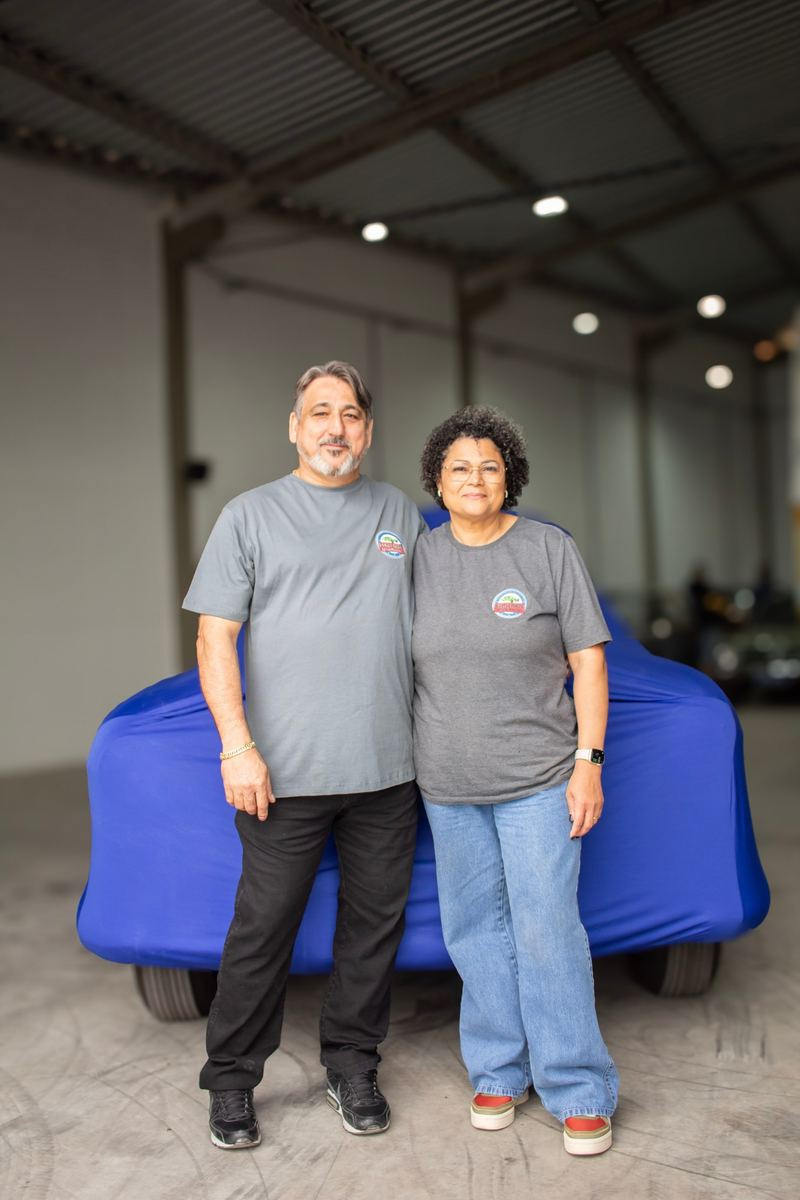
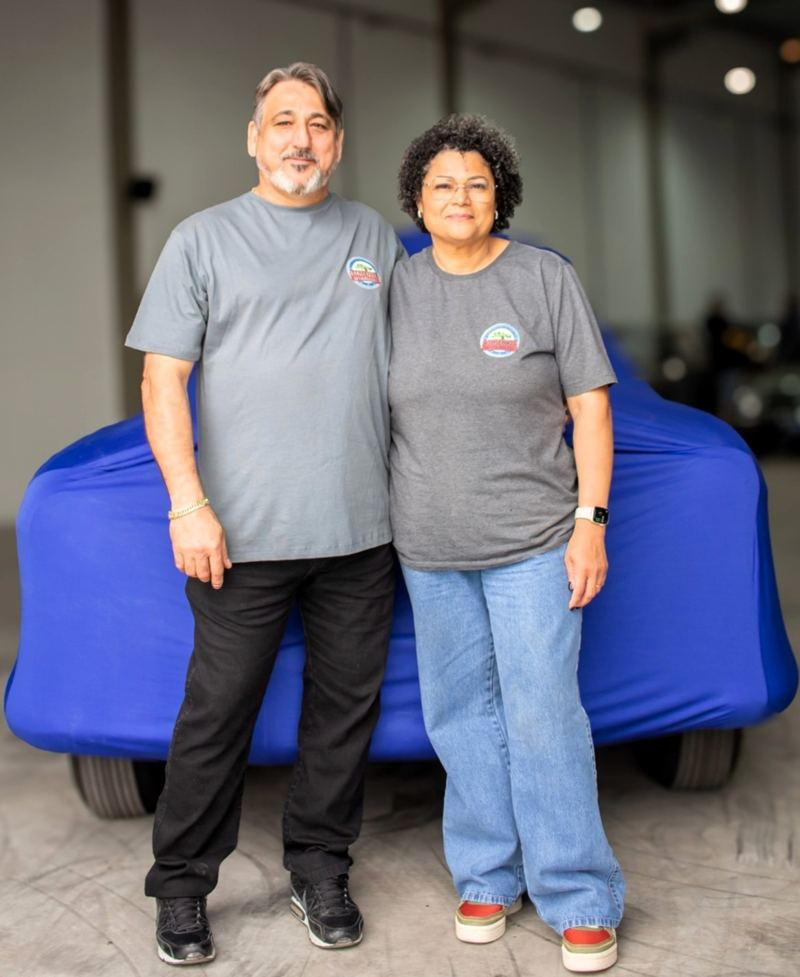
About page: Vanderlei's story, reorganized founders sections
- New "Vanderlei Bomsenhor" section with his career (from his parents'
  tyre shop at 12 to 15+ years at RH Restaurações) and 3 workshop photos
- "Uma empresa de família" now introduces the couple without repeating
  each story; new, smaller founders photo
- Edi Clea's section mentions her as Vanderlei's wife and first
  employee, photos on the left, quote full width below

diff --git a/app.js b/app.js
@@ -699,21 +699,12 @@ function renderSobre(){
 <section class="section" style="background:#FAF9F6">
   <div class="section-inner">
     <div class="founders">
-      <div class="founders-photo reveal"><img src="/images/equipe/fundadores-sm.jpg" srcset="/images/equipe/fundadores-sm.jpg 800w, /images/equipe/fundadores.jpg 1333w" sizes="(max-width:767px) 90vw, 40vw" alt="Vanderlei e Edi Clea Bomsenhor na oficina" loading="lazy"></div>
+      <div class="founders-photo reveal"><img src="/images/equipe/fundadores-sm.jpg" srcset="/images/equipe/fundadores-sm.jpg 800w, /images/equipe/fundadores.jpg 1164w" sizes="(max-width:767px) 90vw, 340px" alt="Vanderlei e Edi Clea Bomsenhor na oficina" loading="lazy"></div>
       <div>
         <span class="s-tag reveal">Quem faz a Bomsenhor</span>
         <h2 class="s-title reveal" style="margin-bottom:1.25rem">Uma empresa <em>de família</em></h2>
-        <p class="reveal" style="font-size:16px;color:#707070;line-height:1.9;margin-bottom:2rem">Por trás de cada restauração estão Vanderlei e Edi Clea Bomsenhor. Juntos, transformaram um trabalho de horas vagas em uma oficina de 575 m².</p>
-        <div class="founder reveal">
-          <h3>Vanderlei Bomsenhor</h3>
-          <div class="founder-role">Fundador</div>
-          <p>Aprendeu o ofício em 15 anos na antiga RH Restaurações. Restaurou o primeiro Opala por conta própria em 2013 e abriu a Bomsenhor em 2015.</p>
-        </div>
-        <div class="founder reveal">
-          <h3>Edi Clea Bomsenhor</h3>
-          <div class="founder-role">Funilaria e tapeçaria</div>
-          <p>Trocou a carreira de estilista pela oficina e se tornou a primeira funcionária oficial da empresa.</p>
-        </div>
+        <p class="reveal" style="font-size:16px;color:#707070;line-height:1.9;margin-bottom:1.25rem">Por trás de cada projeto estão Vanderlei e Edi Clea Bomsenhor, um casal que divide a vida e a oficina.</p>
+        <p class="reveal" style="font-size:16px;color:#707070;line-height:1.9">Ele traz uma vida inteira no meio automotivo, do pneu à pintura. Ela trouxe da moda o olhar para o detalhe e o acabamento. Juntos, transformaram um trabalho de horas vagas em uma oficina de 575 m² em Gaspar.</p>
       </div>
     </div>
   </div>
@@ -722,14 +713,29 @@ function renderSobre(){
   <div class="section-inner">
     <div class="story">
       <div>
+        <span class="s-tag reveal">Uma vida no meio automotivo</span>
+        <h2 class="s-title reveal" style="margin-bottom:1.25rem">Vanderlei <em>Bomsenhor</em></h2>
+        <p class="reveal" style="font-size:16px;color:#707070;line-height:1.9;margin-bottom:1.25rem">Vanderlei começou aos 12 anos na borracharia dos pais, trocando pneus e fazendo outros serviços. Quando a família mudou de ramo e abriu uma funilaria e pintura, foi trabalhar com eles e teve ali o primeiro contato com a lataria e a tinta.</p>
+        <p class="reveal" style="font-size:16px;color:#707070;line-height:1.9;margin-bottom:1.25rem">Depois de se casar, passou por outras empresas do ramo e, por mais de 10 anos, trabalhou com instalação e manutenção de peças e acessórios automotivos.</p>
+        <p class="reveal" style="font-size:16px;color:#707070;line-height:1.9">Na antiga RH Restaurações voltou à funilaria e à pintura, e por mais de 15 anos aprendeu tudo o que o universo da restauração pode ensinar. É essa bagagem, de quem conhece o carro por inteiro, que ele coloca hoje em cada projeto da Bomsenhor.</p>
+      </div>
+      <div class="story-photos story-photos-tall reveal">
+        <img src="/images/equipe/vanderlei-solda-sm.jpg" srcset="/images/equipe/vanderlei-solda-sm.jpg 800w, /images/equipe/vanderlei-solda.jpg 1500w" sizes="(max-width:1023px) 50vw, 25vw" alt="Vanderlei Bomsenhor soldando a lataria de um clássico" loading="lazy">
+        <img src="/images/equipe/vanderlei-bancada-sm.jpg" srcset="/images/equipe/vanderlei-bancada-sm.jpg 800w, /images/equipe/vanderlei-bancada.jpg 1600w" sizes="(max-width:1023px) 50vw, 25vw" alt="Vanderlei Bomsenhor moldando uma peça na bancada" loading="lazy">
+        <img src="/images/equipe/vanderlei-funilaria-sm.jpg" srcset="/images/equipe/vanderlei-funilaria-sm.jpg 800w, /images/equipe/vanderlei-funilaria.jpg 1500w" sizes="(max-width:1023px) 50vw, 25vw" alt="Vanderlei Bomsenhor acertando a funilaria com martelo" loading="lazy">
+      </div>
+    </div>
+  </div>
+</section>
+<section class="section" style="background:#FAF9F6">
+  <div class="section-inner">
+    <div class="story story-reverse">
+      <div>
         <span class="s-tag reveal">Da moda à oficina</span>
         <h2 class="s-title reveal" style="margin-bottom:1.25rem">Edi Clea <em>Bomsenhor</em></h2>
-        <p class="reveal" style="font-size:16px;color:#707070;line-height:1.9;margin-bottom:1.25rem">Durante anos, Edi Clea trabalhou no mundo da moda, como estilista. Na restauração, começou pelo mais difícil: a funilaria. Aprendeu praticamente sozinha, muitas vezes com a supervisão à distância do Vanderlei, que ainda trabalhava em tempo integral na RH Restaurações. Rebater, moldar e soldar: ela encarou as partes mais pesadas do trabalho.</p>
+        <p class="reveal" style="font-size:16px;color:#707070;line-height:1.9;margin-bottom:1.25rem">Durante anos, Edi Clea trabalhou no mundo da moda, como estilista. Na restauração, começou pelo mais difícil: a funilaria. Aprendeu praticamente sozinha, muitas vezes com a supervisão à distância de Vanderlei, que ainda trabalhava em tempo integral na RH Restaurações. Rebater, moldar e soldar: ela encarou as partes mais pesadas do trabalho.</p>
+        <p class="reveal" style="font-size:16px;color:#707070;line-height:1.9;margin-bottom:1.25rem">Em 2021, quando a empresa ganhou o primeiro galpão, tornou-se a primeira funcionária oficial da Bomsenhor.</p>
         <p class="reveal" style="font-size:16px;color:#707070;line-height:1.9">Hoje já passou por praticamente todas as etapas de uma restauração e se especializou em funilaria e tapeçaria. A experiência com vestuário ganhou um novo destino: carpetes, tapetes, bancos e forros de porta costurados por ela.</p>
-        <blockquote class="story-quote reveal">
-          <p>“O que mais me encanta na restauração é que todos os dias aprendemos coisas novas. Uma peça que fazemos para um carro dificilmente será replicada em outro. Estamos sempre em constante mudança e evolução.”</p>
-          <cite>Edi Clea Bomsenhor</cite>
-        </blockquote>
       </div>
       <div class="story-photos reveal">
         <img src="/images/equipe/edi-clea-sm.jpg" srcset="/images/equipe/edi-clea-sm.jpg 800w, /images/equipe/edi-clea.jpg 1600w" sizes="(max-width:767px) 90vw, 45vw" alt="Edi Clea Bomsenhor na bancada da oficina" loading="lazy">
@@ -737,6 +743,10 @@ function renderSobre(){
         <img src="/images/equipe/edi-clea-molde-sm.jpg" srcset="/images/equipe/edi-clea-molde-sm.jpg 800w, /images/equipe/edi-clea-molde.jpg 1600w" sizes="(max-width:767px) 45vw, 22vw" alt="Edi Clea comparando um molde com a peça original" loading="lazy">
       </div>
     </div>
+    <blockquote class="story-quote story-quote-wide reveal">
+      <p>“O que mais me encanta na restauração é que todos os dias aprendemos coisas novas. Uma peça que fazemos para um carro dificilmente será replicada em outro. Estamos sempre em constante mudança e evolução.”</p>
+      <cite>Edi Clea Bomsenhor</cite>
+    </blockquote>
   </div>
 </section>
 <section style="position:relative;height:420px;overflow:hidden">

diff --git a/sobre/index.html b/sobre/index.html
@@ -93,21 +93,12 @@
 <section class="section" style="background:#FAF9F6">
   <div class="section-inner">
     <div class="founders">
-      <div class="founders-photo reveal"><img src="/images/equipe/fundadores-sm.jpg" srcset="/images/equipe/fundadores-sm.jpg 800w, /images/equipe/fundadores.jpg 1333w" sizes="(max-width:767px) 90vw, 40vw" alt="Vanderlei e Edi Clea Bomsenhor na oficina" loading="lazy"></div>
+      <div class="founders-photo reveal"><img src="/images/equipe/fundadores-sm.jpg" srcset="/images/equipe/fundadores-sm.jpg 800w, /images/equipe/fundadores.jpg 1164w" sizes="(max-width:767px) 90vw, 340px" alt="Vanderlei e Edi Clea Bomsenhor na oficina" loading="lazy"></div>
       <div>
         <span class="s-tag reveal">Quem faz a Bomsenhor</span>
         <h2 class="s-title reveal" style="margin-bottom:1.25rem">Uma empresa <em>de família</em></h2>
-        <p class="reveal" style="font-size:16px;color:#707070;line-height:1.9;margin-bottom:2rem">Por trás de cada restauração estão Vanderlei e Edi Clea Bomsenhor. Juntos, transformaram um trabalho de horas vagas em uma oficina de 575 m².</p>
-        <div class="founder reveal">
-          <h3>Vanderlei Bomsenhor</h3>
-          <div class="founder-role">Fundador</div>
-          <p>Aprendeu o ofício em 15 anos na antiga RH Restaurações. Restaurou o primeiro Opala por conta própria em 2013 e abriu a Bomsenhor em 2015.</p>
-        </div>
-        <div class="founder reveal">
-          <h3>Edi Clea Bomsenhor</h3>
-          <div class="founder-role">Funilaria e tapeçaria</div>
-          <p>Trocou a carreira de estilista pela oficina e se tornou a primeira funcionária oficial da empresa.</p>
-        </div>
+        <p class="reveal" style="font-size:16px;color:#707070;line-height:1.9;margin-bottom:1.25rem">Por trás de cada projeto estão Vanderlei e Edi Clea Bomsenhor, um casal que divide a vida e a oficina.</p>
+        <p class="reveal" style="font-size:16px;color:#707070;line-height:1.9">Ele traz uma vida inteira no meio automotivo, do pneu à pintura. Ela trouxe da moda o olhar para o detalhe e o acabamento. Juntos, transformaram um trabalho de horas vagas em uma oficina de 575 m² em Gaspar.</p>
       </div>
     </div>
   </div>
@@ -116,14 +107,29 @@
   <div class="section-inner">
     <div class="story">
       <div>
+        <span class="s-tag reveal">Uma vida no meio automotivo</span>
+        <h2 class="s-title reveal" style="margin-bottom:1.25rem">Vanderlei <em>Bomsenhor</em></h2>
+        <p class="reveal" style="font-size:16px;color:#707070;line-height:1.9;margin-bottom:1.25rem">Vanderlei começou aos 12 anos na borracharia dos pais, trocando pneus e fazendo outros serviços. Quando a família mudou de ramo e abriu uma funilaria e pintura, foi trabalhar com eles e teve ali o primeiro contato com a lataria e a tinta.</p>
+        <p class="reveal" style="font-size:16px;color:#707070;line-height:1.9;margin-bottom:1.25rem">Depois de se casar, passou por outras empresas do ramo e, por mais de 10 anos, trabalhou com instalação e manutenção de peças e acessórios automotivos.</p>
+        <p class="reveal" style="font-size:16px;color:#707070;line-height:1.9">Na antiga RH Restaurações voltou à funilaria e à pintura, e por mais de 15 anos aprendeu tudo o que o universo da restauração pode ensinar. É essa bagagem, de quem conhece o carro por inteiro, que ele coloca hoje em cada projeto da Bomsenhor.</p>
+      </div>
+      <div class="story-photos story-photos-tall reveal">
+        <img src="/images/equipe/vanderlei-solda-sm.jpg" srcset="/images/equipe/vanderlei-solda-sm.jpg 800w, /images/equipe/vanderlei-solda.jpg 1500w" sizes="(max-width:1023px) 50vw, 25vw" alt="Vanderlei Bomsenhor soldando a lataria de um clássico" loading="lazy">
+        <img src="/images/equipe/vanderlei-bancada-sm.jpg" srcset="/images/equipe/vanderlei-bancada-sm.jpg 800w, /images/equipe/vanderlei-bancada.jpg 1600w" sizes="(max-width:1023px) 50vw, 25vw" alt="Vanderlei Bomsenhor moldando uma peça na bancada" loading="lazy">
+        <img src="/images/equipe/vanderlei-funilaria-sm.jpg" srcset="/images/equipe/vanderlei-funilaria-sm.jpg 800w, /images/equipe/vanderlei-funilaria.jpg 1500w" sizes="(max-width:1023px) 50vw, 25vw" alt="Vanderlei Bomsenhor acertando a funilaria com martelo" loading="lazy">
+      </div>
+    </div>
+  </div>
+</section>
+<section class="section" style="background:#FAF9F6">
+  <div class="section-inner">
+    <div class="story story-reverse">
+      <div>
         <span class="s-tag reveal">Da moda à oficina</span>
         <h2 class="s-title reveal" style="margin-bottom:1.25rem">Edi Clea <em>Bomsenhor</em></h2>
-        <p class="reveal" style="font-size:16px;color:#707070;line-height:1.9;margin-bottom:1.25rem">Durante anos, Edi Clea trabalhou no mundo da moda, como estilista. Na restauração, começou pelo mais difícil: a funilaria. Aprendeu praticamente sozinha, muitas vezes com a supervisão à distância do Vanderlei, que ainda trabalhava em tempo integral na RH Restaurações. Rebater, moldar e soldar: ela encarou as partes mais pesadas do trabalho.</p>
+        <p class="reveal" style="font-size:16px;color:#707070;line-height:1.9;margin-bottom:1.25rem">Durante anos, Edi Clea trabalhou no mundo da moda, como estilista. Na restauração, começou pelo mais difícil: a funilaria. Aprendeu praticamente sozinha, muitas vezes com a supervisão à distância de Vanderlei, que ainda trabalhava em tempo integral na RH Restaurações. Rebater, moldar e soldar: ela encarou as partes mais pesadas do trabalho.</p>
+        <p class="reveal" style="font-size:16px;color:#707070;line-height:1.9;margin-bottom:1.25rem">Em 2021, quando a empresa ganhou o primeiro galpão, tornou-se a primeira funcionária oficial da Bomsenhor.</p>
         <p class="reveal" style="font-size:16px;color:#707070;line-height:1.9">Hoje já passou por praticamente todas as etapas de uma restauração e se especializou em funilaria e tapeçaria. A experiência com vestuário ganhou um novo destino: carpetes, tapetes, bancos e forros de porta costurados por ela.</p>
-        <blockquote class="story-quote reveal">
-          <p>“O que mais me encanta na restauração é que todos os dias aprendemos coisas novas. Uma peça que fazemos para um carro dificilmente será replicada em outro. Estamos sempre em constante mudança e evolução.”</p>
-          <cite>Edi Clea Bomsenhor</cite>
-        </blockquote>
       </div>
       <div class="story-photos reveal">
         <img src="/images/equipe/edi-clea-sm.jpg" srcset="/images/equipe/edi-clea-sm.jpg 800w, /images/equipe/edi-clea.jpg 1600w" sizes="(max-width:767px) 90vw, 45vw" alt="Edi Clea Bomsenhor na bancada da oficina" loading="lazy">
@@ -131,6 +137,10 @@
         <img src="/images/equipe/edi-clea-molde-sm.jpg" srcset="/images/equipe/edi-clea-molde-sm.jpg 800w, /images/equipe/edi-clea-molde.jpg 1600w" sizes="(max-width:767px) 45vw, 22vw" alt="Edi Clea comparando um molde com a peça original" loading="lazy">
       </div>
     </div>
+    <blockquote class="story-quote story-quote-wide reveal">
+      <p>“O que mais me encanta na restauração é que todos os dias aprendemos coisas novas. Uma peça que fazemos para um carro dificilmente será replicada em outro. Estamos sempre em constante mudança e evolução.”</p>
+      <cite>Edi Clea Bomsenhor</cite>
+    </blockquote>
   </div>
 </section>
 <section style="position:relative;height:420px;overflow:hidden">

diff --git a/styles.css b/styles.css
@@ -178,8 +178,9 @@ button{font-family:var(--fb);cursor:pointer;border:none;background:none}
 .about-tl-body h4{font-weight:600;color:#333333;margin-bottom:4px}
 .about-tl-body p{font-size:13px;color:#6B6B6B;line-height:1.7}
 .founders{display:grid;grid-template-columns:1fr;gap:2.5rem;align-items:center}
-@media(min-width:768px){.founders{grid-template-columns:minmax(0,5fr) minmax(0,7fr);gap:3.5rem}}
-.founders-photo{border-radius:var(--rl);overflow:hidden;aspect-ratio:4/5;background:#ECECEC}
+@media(min-width:768px){.founders{grid-template-columns:minmax(0,300px) minmax(0,1fr);gap:3rem}}
+@media(min-width:1024px){.founders{grid-template-columns:minmax(0,340px) minmax(0,680px)}}
+.founders-photo{border-radius:var(--rl);overflow:hidden;aspect-ratio:1164/1422;max-width:340px;background:#ECECEC}
 .founders-photo img{width:100%;height:100%;object-fit:cover;object-position:center 40%;display:block}
 .founder{padding:1.25rem 0;border-top:1px solid #D3D3D3}
 .founder h3{font-family:var(--fd);font-size:1.35rem;font-weight:400;color:#333333}
@@ -189,10 +190,16 @@ button{font-family:var(--fb);cursor:pointer;border:none;background:none}
 @media(min-width:1024px){.story{grid-template-columns:minmax(0,6fr) minmax(0,5fr);gap:3.5rem}}
 .story-quote{margin-top:2rem;padding:1.5rem 1.75rem;border-left:3px solid #F4C542;background:#FEF9EC;border-radius:0 var(--rl) var(--rl) 0}
 .story-quote p{font-family:var(--fd);font-style:italic;font-size:1.15rem;color:#333333;line-height:1.6}
+.story-quote-wide{margin-top:3rem}
+.story-quote-wide p{font-size:clamp(1.15rem,2.2vw,1.45rem)}
 .story-quote cite{display:block;margin-top:.75rem;font-style:normal;font-size:11px;letter-spacing:.1em;text-transform:uppercase;color:#8A6D1E}
 .story-photos{display:grid;grid-template-columns:1fr 1fr;gap:.75rem}
 .story-photos img{width:100%;aspect-ratio:3/2;object-fit:cover;border-radius:var(--rl);display:block}
 .story-photos img:first-child{grid-column:1/-1}
+@media(min-width:1024px){.story-reverse{grid-template-columns:minmax(0,5fr) minmax(0,6fr)}.story-reverse>.story-photos{order:-1}}
+.story-photos-tall{grid-template-rows:1fr 1fr}
+.story-photos-tall img{aspect-ratio:1/1;object-position:center 30%}
+.story-photos-tall img:first-child{grid-column:auto;grid-row:1/3;aspect-ratio:auto;height:100%}
 
 .section-dark{background:#0F1E33}
 .section-dark+.section-dark{padding-top:0}
